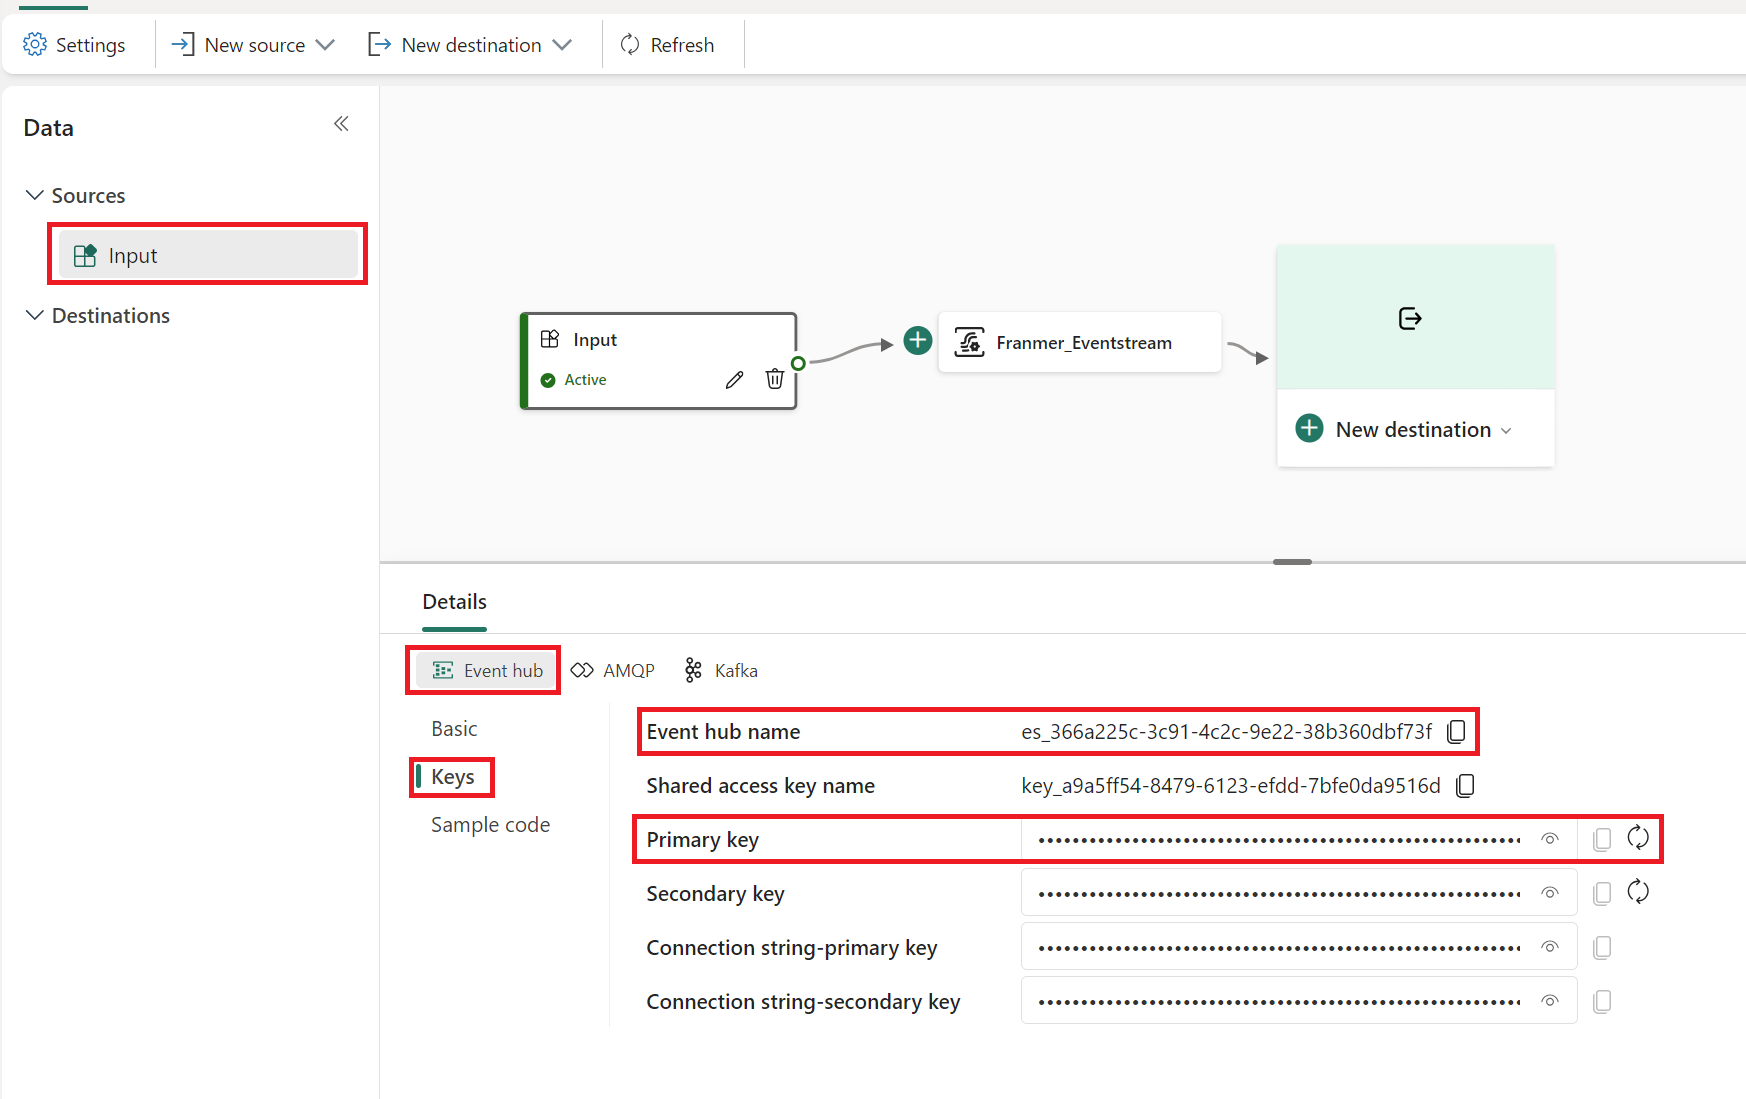
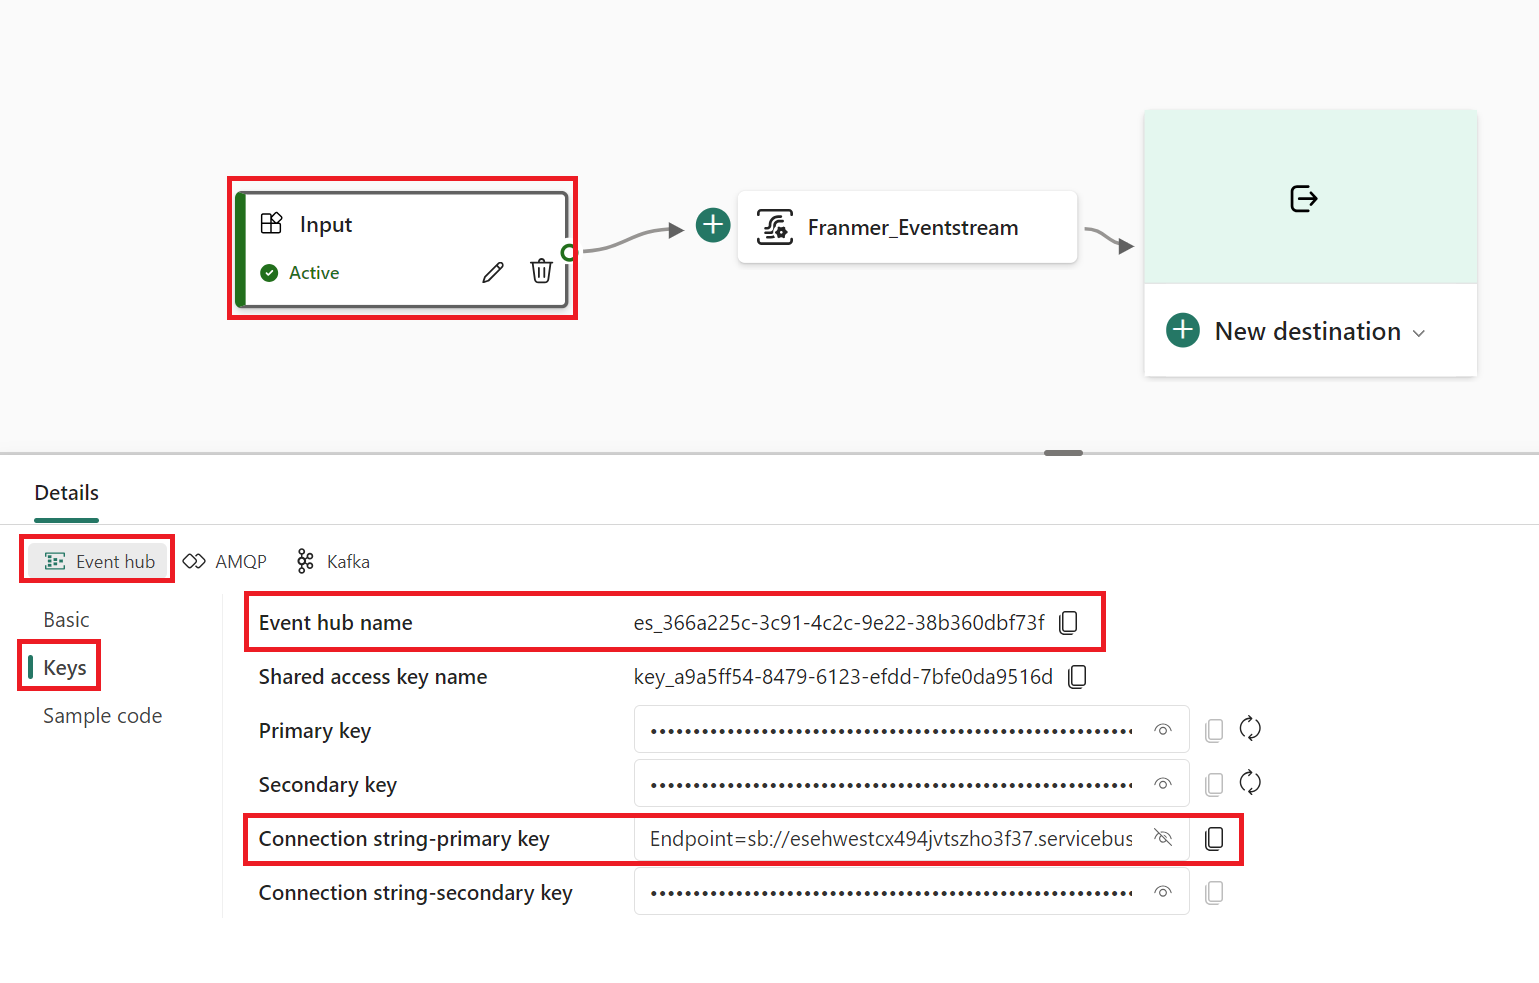
V0

diff --git a/Readme.md b/Readme.md
@@ -68,6 +68,7 @@ Notez les valeurs pour les éleéments suivants, nous allons en avoir besoin ult
 - Event hub name
 - Primary Key
 
+![Eventstream](/Pictures/010.png)
 
 Avant d'aller plus loin avec Microsoft Fabric Eventstream, nous devons envoyer des données dans le moteur d'ingestion afin d'otenir le schéma de données.
 
@@ -90,12 +91,47 @@ Cliquez sur "Designer" puis sur "Add a trigger"
 ![LogicApps](/Pictures/017.png)
 
 Comme on désire récupérer les données toutes les 30 secondes, on va choisir un déclencheur de type récurrence. 
+Dans la zone de recherche, entrez "recurrence", puis sélectionnez le déclecheur "Schedule / Recurrence".
 
-![LogicApps](/Pictures/017.png)
+![LogicApps](/Pictures/019.png)
+
+Définissez les paramètres de votre déclencheur. Ici je demande un déclenchement toutes les 30 secondes.
+
+![LogicApps](/Pictures/020.png)
+
+Sous le déclencheur "Recurrence", cliquez sur le signe "+", cherchez avec le mot clef "https" puis choissisez l'action "HTTP"
+
+![LogicApps](/Pictures/021.png)
+
+Dans l'onglet "Parameters", entrez les valeurs suivantes pour les champs :
+- **URI** : https://bct.tmix.se/gtfs-realtime/vehicleupdates.js?operatorIds=12
+- **Method** : GET
+
+![LogicApps](/Pictures/022.png)
+
+
+En dessous de l'action "HTTP", cliquez sur le signe "+", recherchez "Event hub" et sélectionnez "Event Hubs / Sent **E**vent"
+
+![LogicApps](/Pictures/023.png)
+
+Si aucune connexion existe, vous devriez avoir la fenêtre suivante :
+
+![LogicApps](/Pictures/024.png)
+
+L'information concernant la "Connection string" se retrouve dans l'entrée de votre Microsoft Fabric Eventstream (l'information a été notée plus tôt dans cet article).
+Cliquez sur le bouton "Create New".
+
+La fenêtre suivante apparaît alors. Renseignez le nom de votre Eventstream dans le champ "Event Hub Name". Dans la liste déroulante "Advanced parameters" sélectionnez "Content"
+
+![LogicApps](/Pictures/025.png)
+
+
+
+
 
 # Microsoft Fabric (suite)
  
-![LogicApps](/Pictures/010.png)
+
 
 
 ### Création de la destination des évènements
